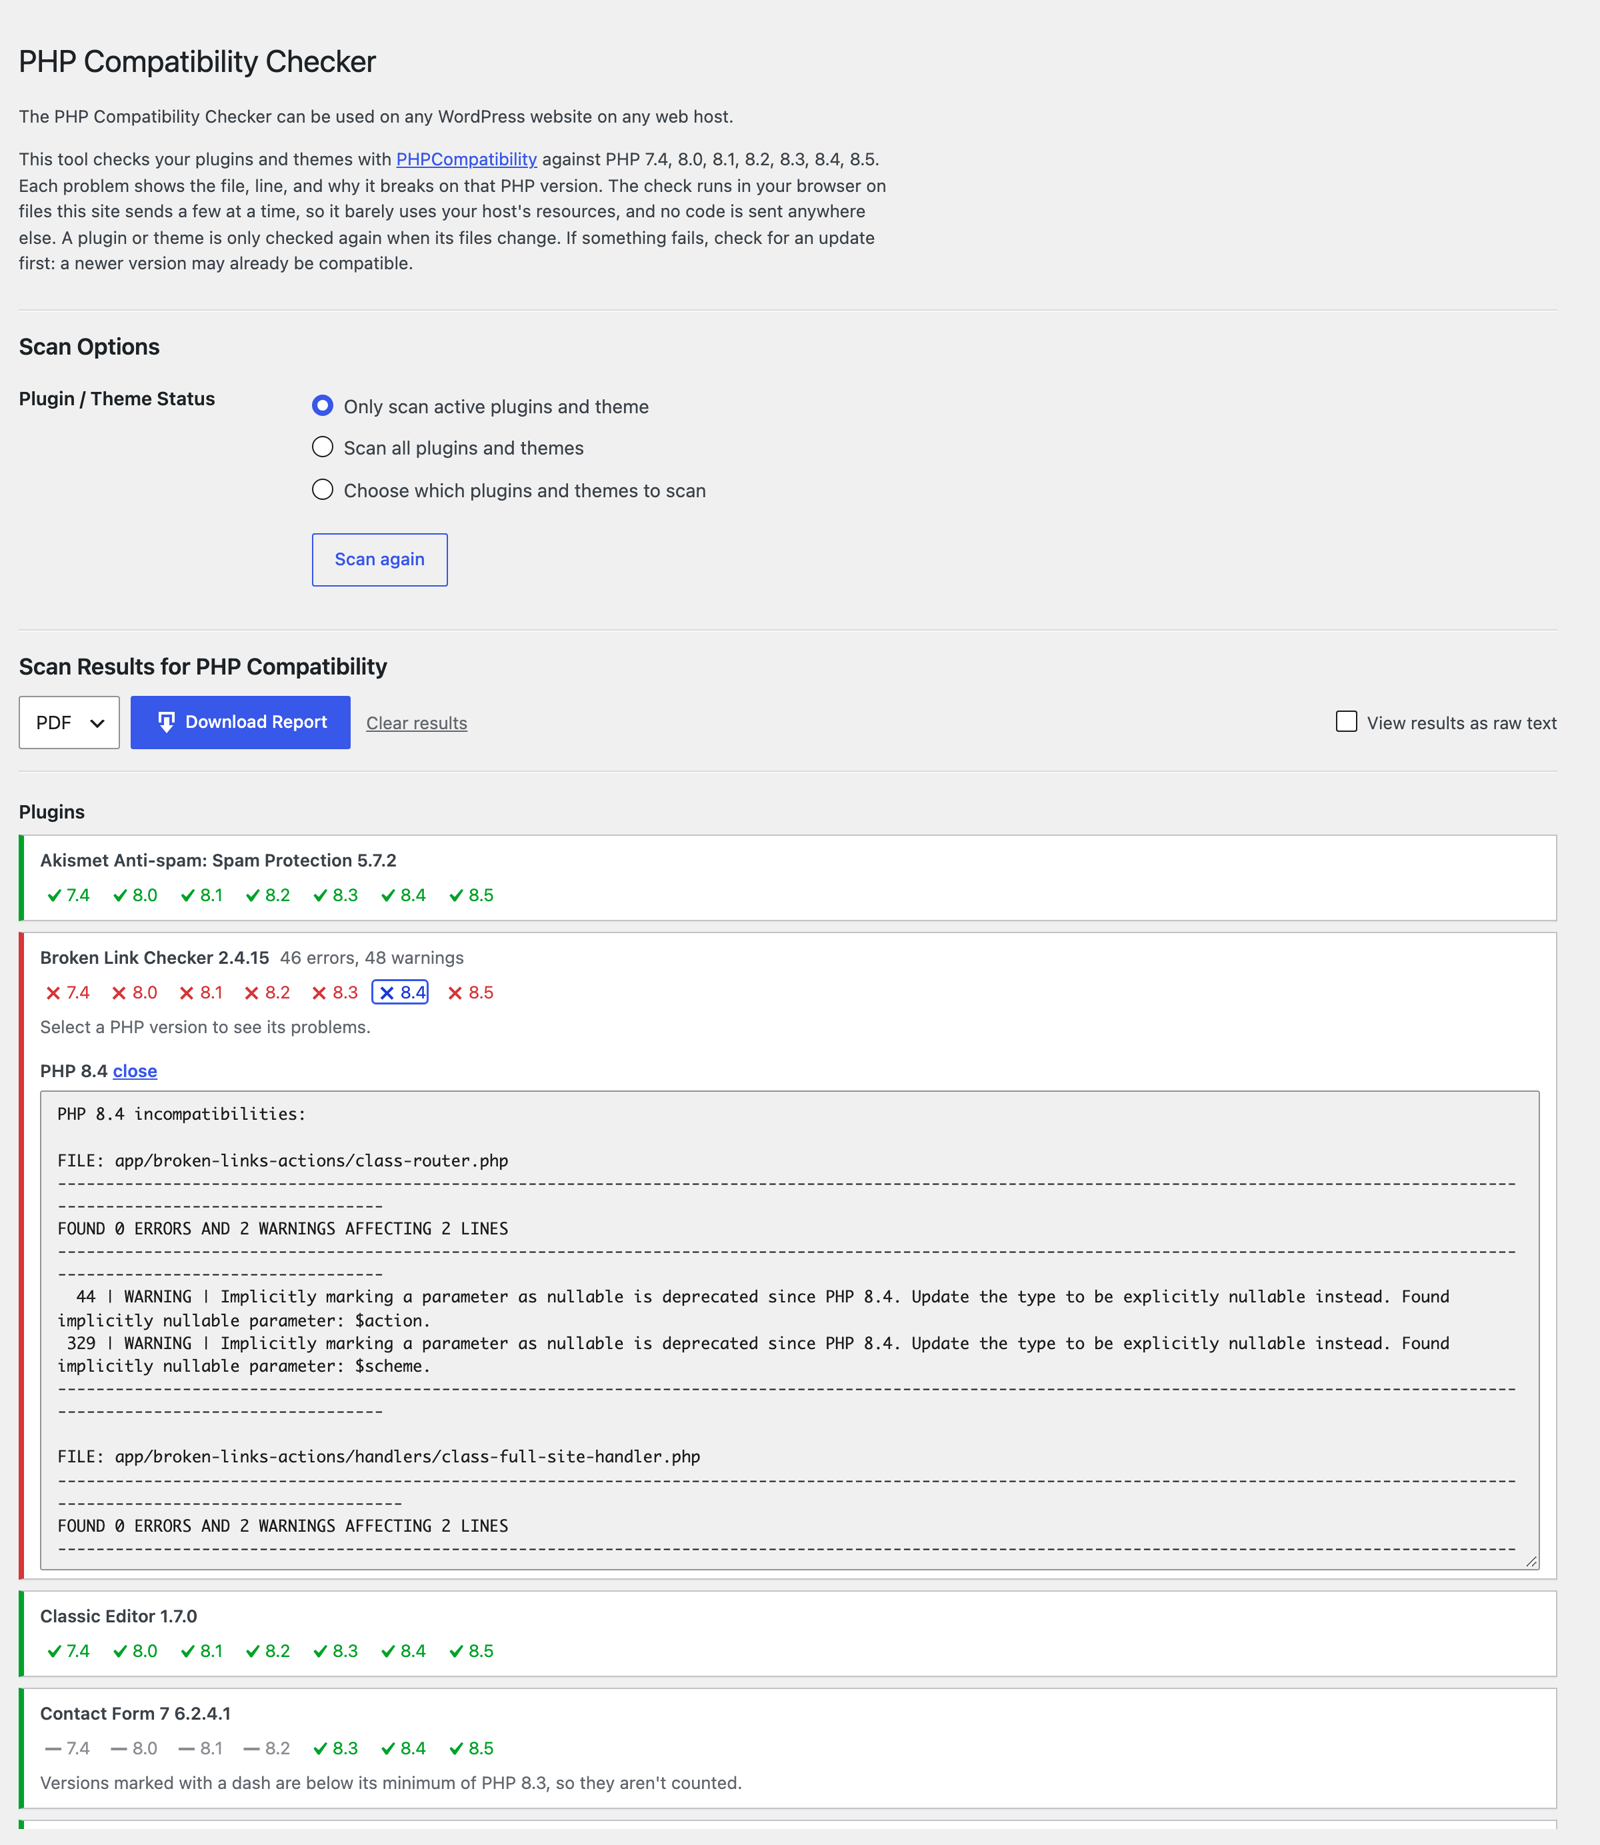
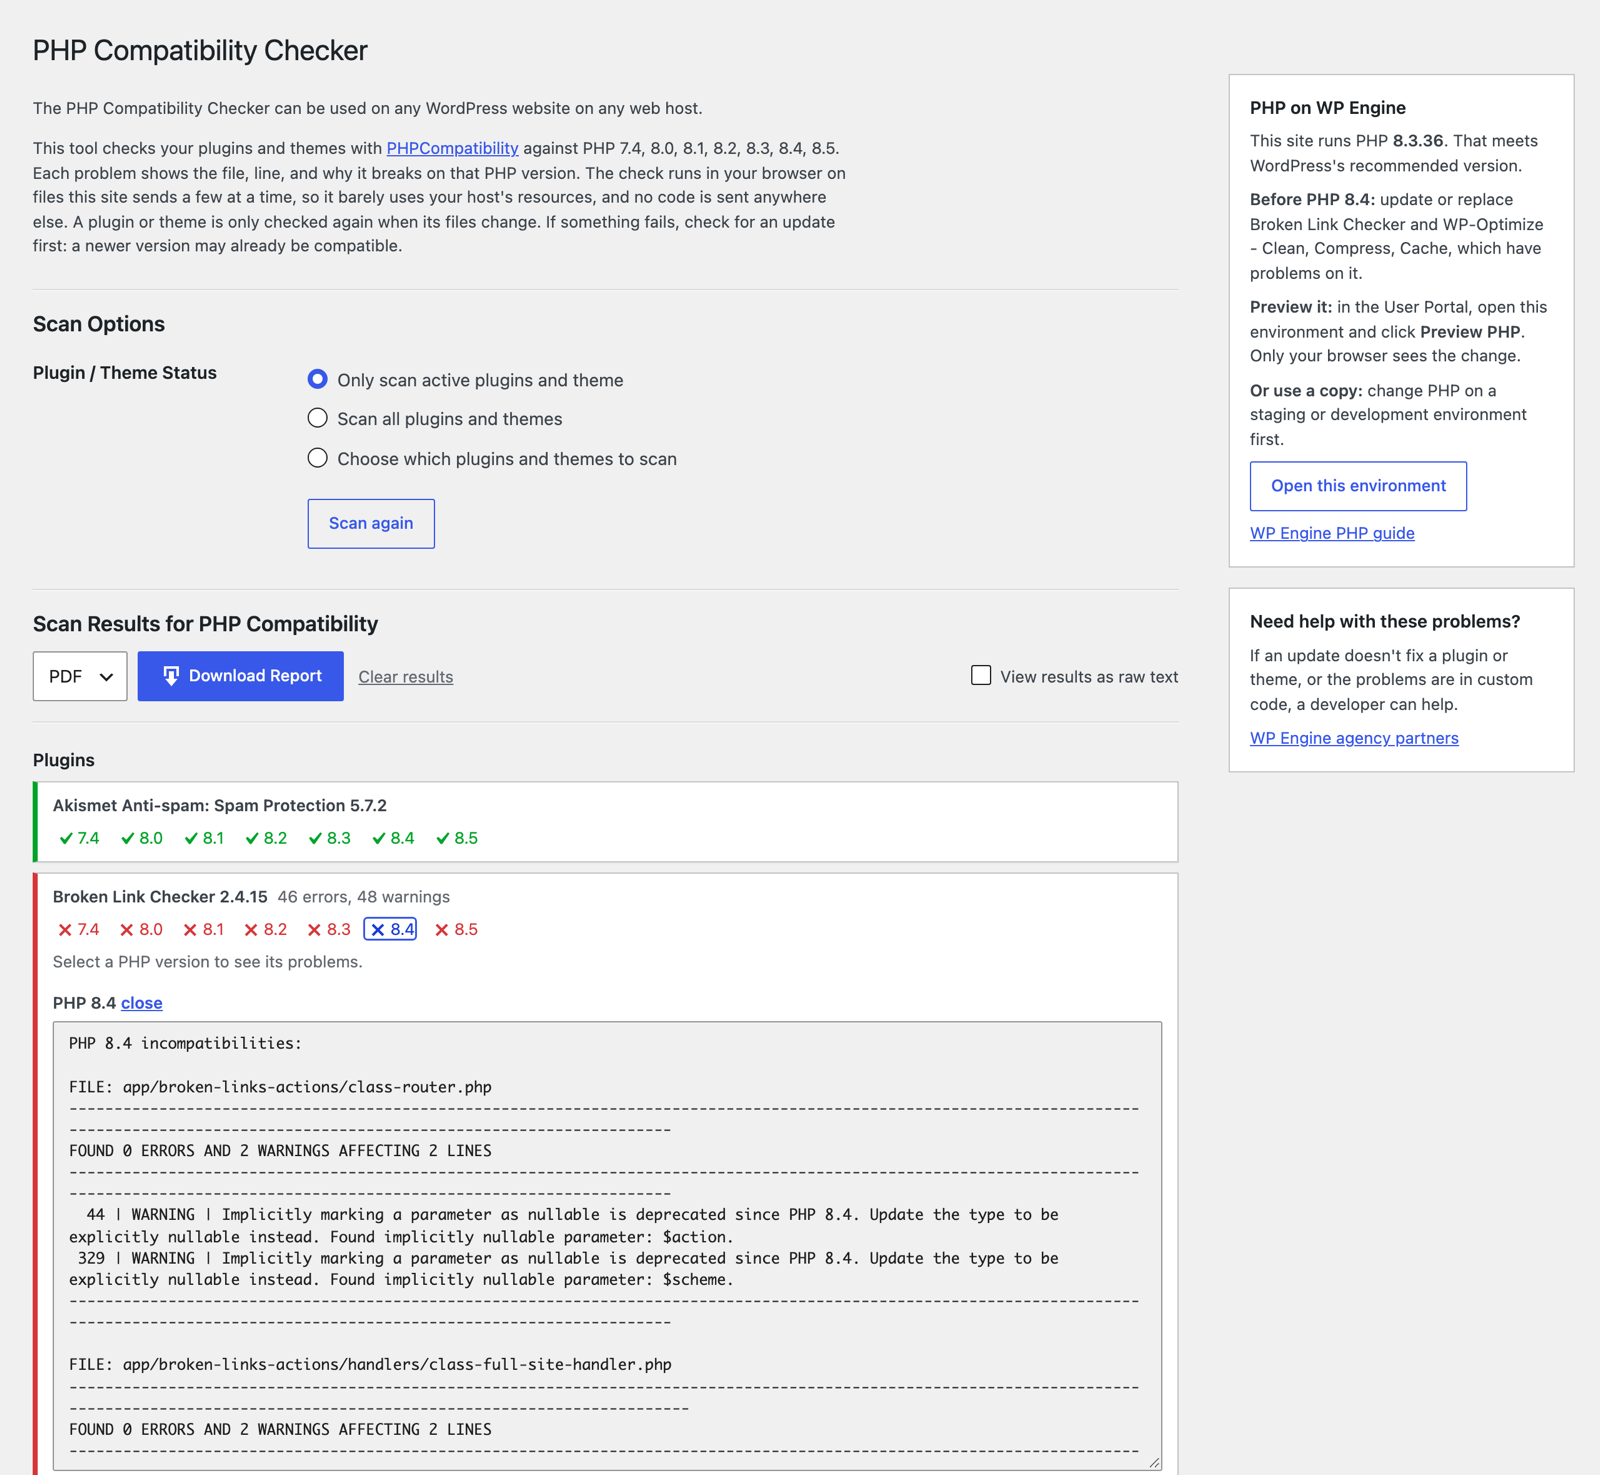
README: scan GIF, host panel section, two-lane diagram
The diagram's last node was hidden behind GitHub's zoom controls.

diff --git a/README.md b/README.md
@@ -5,35 +5,44 @@
 A WordPress plugin that checks whether a site's plugins and themes work on PHP 7.4 through 8.5. It's on WordPress.org as [PHP Compatibility Checker](https://wordpress.org/plugins/php-compatibility-checker/), with around 200,000 active installs. This fork is where it's maintained before changes go upstream to [wpengine/phpcompat](https://github.com/wpengine/phpcompat).
 
 <p align="center">
-  <img src=".github/images/scan-results.png" alt="Scan results: Broken Link Checker fails every PHP version and its PHP 8.4 problems are open, listing file, line and message; other plugins pass." width="800">
+  <img src=".github/images/scan.gif" alt="Clicking Scan site: each plugin's card fills in with a check or cross per PHP version, then PHP 8.4's problems for Broken Link Checker open, listing file, line and message." width="800">
 </p>
 
 ## How it works
 
-It runs [PHPCompatibilityWP](https://github.com/PHPCompatibility/PHPCompatibilityWP) on every plugin and theme, including premium and custom code, and shows the file, line, and reason for each problem. The scan runs in the admin's browser, in PHP compiled to WebAssembly: the site only reads files, so it barely uses the host's resources, and nothing is sent to an outside service.
+It runs [PHPCompatibilityWP](https://github.com/PHPCompatibility/PHPCompatibilityWP) on every plugin and theme, including premium and custom code, and shows the file, line, and reason for each problem. The scan runs in the admin's browser, in PHP compiled to WebAssembly. The site only reads files, so the host barely notices, and no code leaves the site.
 
 ```mermaid
 flowchart LR
-    files[("Plugin and<br/>theme files")]
-    rest["REST API<br/>reads the next few files"]
-    worker["PHP 8.3 in WebAssembly<br/>phpcs + PHPCompatibilityWP<br/>(Web Worker)"]
-    results[("Stored results")]
-    uses["Site Health,<br/>WP-CLI, Abilities"]
-    files --> rest
-    rest -- "POST /scan-batch" --> worker
-    worker -- "POST /results" --> results
-    results --> uses
-    classDef site fill:#e7f0fa,stroke:#2271b1,color:#1d2327
-    classDef browser fill:#fcf0e3,stroke:#b26200,color:#1d2327
-    class files,rest,results,uses site
-    class worker browser
+    subgraph site["WordPress site"]
+        direction TB
+        files[("Plugin and<br/>theme files")]
+        results[("Stored results")]
+        uses["Site Health, reports,<br/>WP-CLI, Abilities"]
+        results --> uses
+    end
+    subgraph browser["Admin's browser"]
+        worker["phpcs + PHPCompatibilityWP<br/>in PHP 8.3 WebAssembly"]
+    end
+    files -- "a few files<br/>at a time" --> worker
+    worker -- "problems<br/>found" --> results
+    classDef siteNode fill:#e7f0fa,stroke:#2271b1,color:#1d2327
+    classDef browserNode fill:#fcf0e3,stroke:#b26200,color:#1d2327
+    class files,results,uses siteNode
+    class worker browserNode
+    style site fill:#f6f7f7,stroke:#c3c4c7
+    style browser fill:#f6f7f7,stroke:#c3c4c7
 ```
 
-<sub>Blue runs on the WordPress site. Orange runs in the admin's browser.</sub>
+Results are reused until a plugin's files change. More: [how a scan works and why it's safe on shared hosting](docs/how-it-works.md).
 
-Results are stored and reused until a plugin's files change. They also feed Site Health, PDF/CSV/JSON reports, WP-CLI, and the Abilities API.
+## Works with any host
 
-More: [how a scan works and why it's safe on shared hosting](docs/how-it-works.md).
+Beside the results, a panel shows the site's PHP version, which newer PHP it's ready for, and how to change PHP on this host. WP Engine is built in, hosts that already set a PHP guide URL for WordPress core get a panel linking to it, and any host can fill it in with the `wpephpcompat_host` filter ([example](docs/reference.md#host-panel)).
+
+<p align="center">
+  <img src=".github/images/host-panel.png" alt="Two versions of the panel. Left, on WP Engine: PHP 8.3.36, which plugins block PHP 8.4, how to preview PHP in the User Portal, and a help box shown after problems are found. Right, on another host: the same status with a link to the host's PHP guide." width="560">
+</p>
 
 ## WP-CLI
 
@@ -43,7 +52,7 @@ wp php-compat report wp-optimize --php=8.4
 wp php-compat readiness --format=json   # Which newer PHP the site is ready for
 ```
 
-`readiness` reads stored results only, so hosts can run it across many sites. See [reading results across many sites](docs/readiness.md) and the [full reference](docs/reference.md) (all commands, Abilities API, PHP release status, filters).
+`readiness` reads stored results only, so hosts can run it across many sites ([how](docs/readiness.md)). The [full reference](docs/reference.md) covers every command, the Abilities API, and filters.
 
 ## Local development
 

diff --git a/docs/how-it-works.md b/docs/how-it-works.md
@@ -56,7 +56,7 @@ sequenceDiagram
 ```
 
 <p align="center">
-  <img src="../.github/images/scan-results.png" alt="Scan results: Broken Link Checker fails every PHP version and its PHP 8.4 problems are open, listing file, line and message; other plugins pass, and Contact Form 7 shows dashes for versions below its minimum." width="800">
+  <img src="../.github/images/scan-results.png" alt="Scan results: Broken Link Checker fails every PHP version and its PHP 8.4 problems are open, listing file, line and message; other plugins pass, and Contact Form 7 shows dashes for versions below its minimum. On the right, the WP Engine host panel." width="800">
 </p>
 
 The results also feed:
